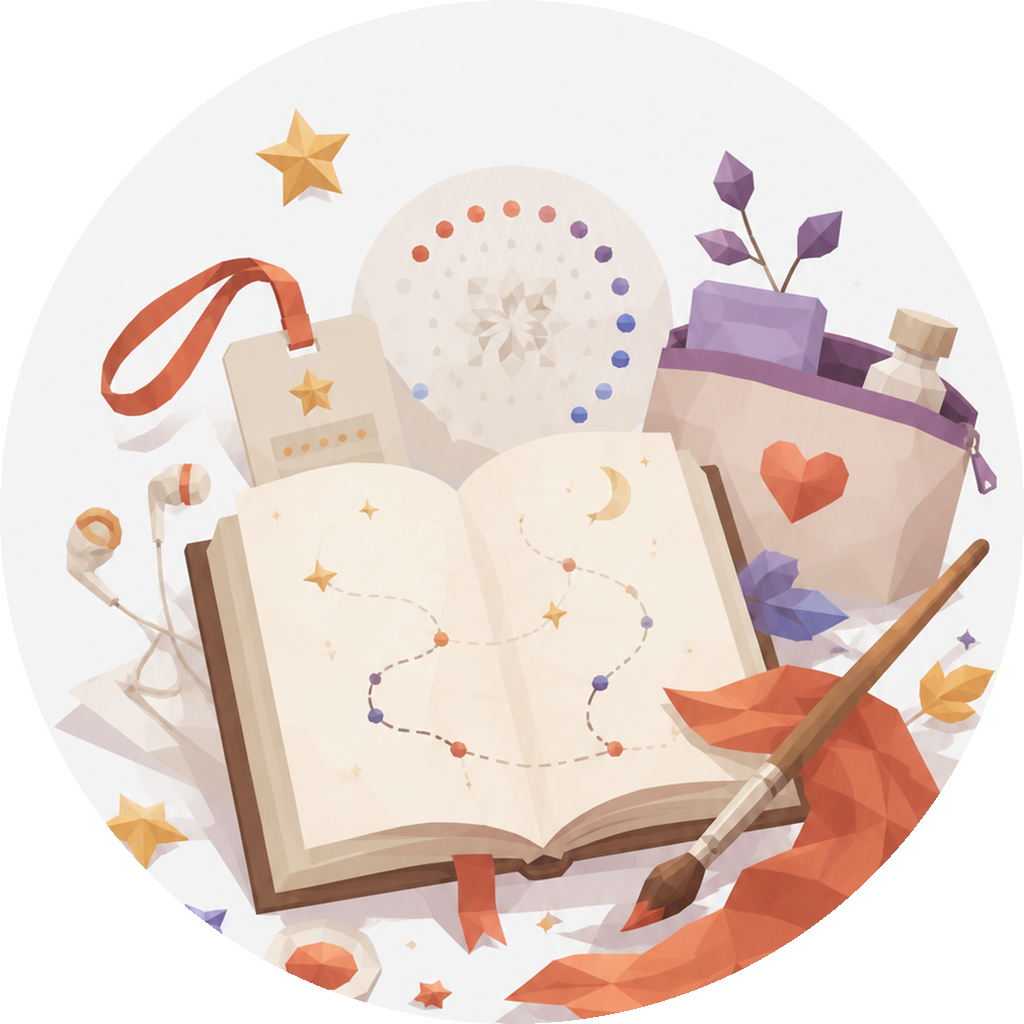
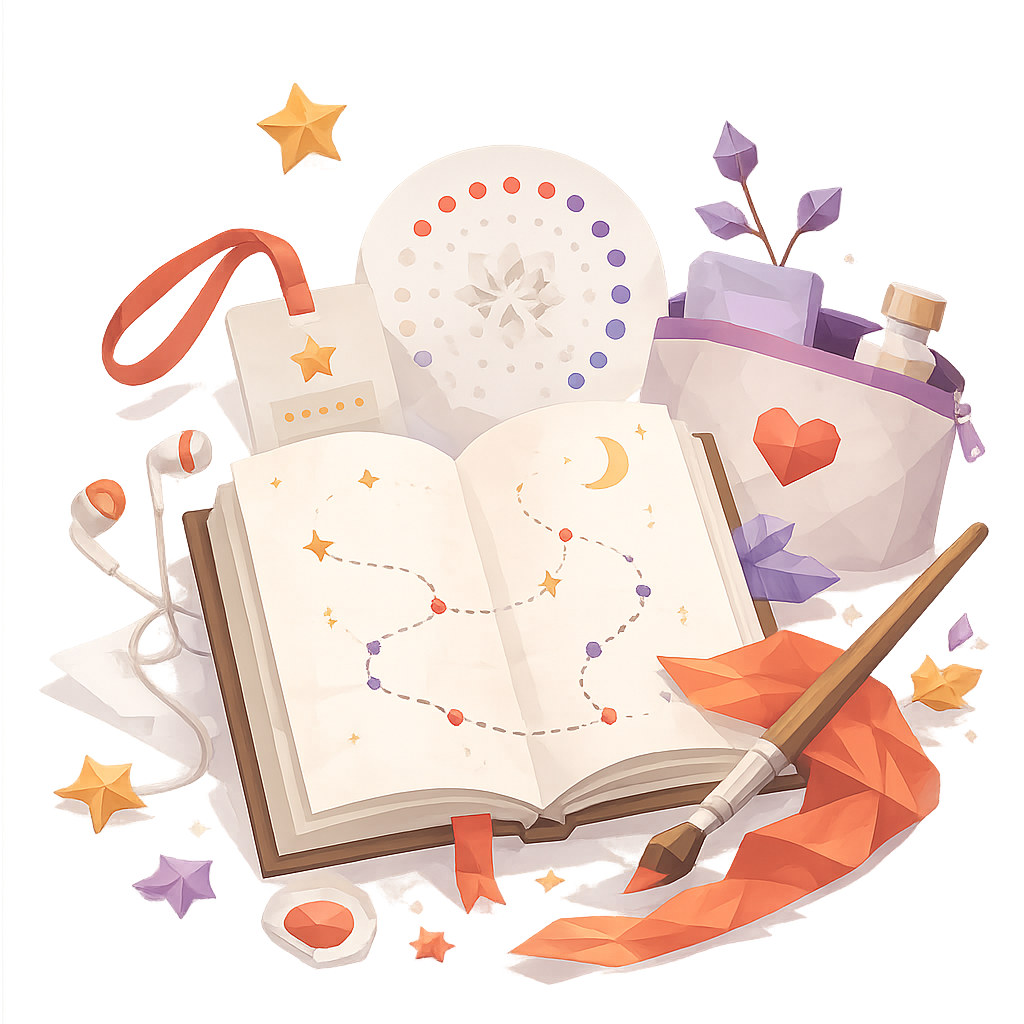
Remove result persona image backing

diff --git a/src/styles.css b/src/styles.css
@@ -505,12 +505,17 @@ button {
 .special-avatar-wrap {
   height: 224px;
   width: 224px;
-  overflow: hidden;
+  border: 0;
+  background: transparent;
+  box-shadow: none;
+  overflow: visible;
 }
 
 .special-avatar {
   width: 210px;
   height: 210px;
+  background: transparent;
+  object-fit: contain;
   object-position: center;
 }
 
@@ -922,19 +927,21 @@ button {
 .save-avatar-wrap {
   margin: 0 auto;
   display: flex;
-  height: 128px;
-  width: 128px;
+  width: min(78vw, 300px);
   align-items: flex-start;
   justify-content: center;
-  border-radius: 999px;
-  background: #fbf0ed;
-  overflow: hidden;
+  border: 0;
+  background: transparent;
+  box-shadow: none;
+  overflow: visible;
 }
 
 .save-avatar {
-  height: 118%;
-  width: 118%;
-  object-fit: cover;
+  display: block;
+  width: 100%;
+  height: auto;
+  background: transparent;
+  object-fit: contain;
   object-position: center top;
 }
 
@@ -1323,9 +1330,10 @@ button {
   display: block;
   width: min(78vw, 330px);
   max-height: clamp(260px, 72vw, 370px);
+  height: auto;
+  background: transparent;
   object-fit: contain;
   object-position: center top;
-  clip-path: circle(49% at 50% 50%);
   filter: drop-shadow(0 18px 22px rgba(54, 102, 112, 0.12));
 }
 

diff --git a/src/main.ts b/src/main.ts
@@ -381,7 +381,7 @@ function SpecialResultPage({
         h("span", { className: "result-squiggle result-squiggle-right" }, "{"),
         h("span", { className: "result-bubble" })
       ),
-      h("figure", { className: "special-avatar-wrap mx-auto mt-5 flex items-center justify-center rounded-full bg-[#fbf0ed]" },
+      h("figure", { className: "special-avatar-wrap mx-auto mt-5 flex items-center justify-center" },
         h("img", {
           src: specialResultImage,
           alt: `${result.name} ${result.englishName}人格形象`,
